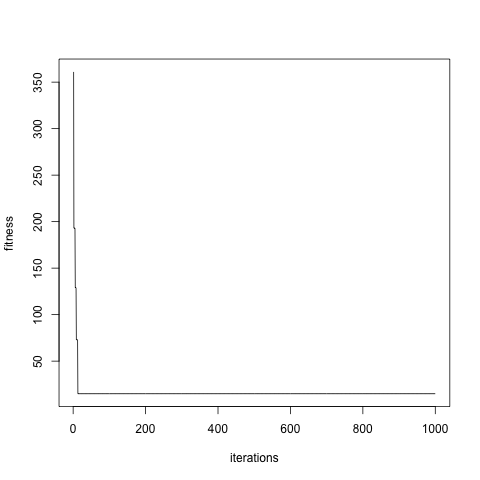
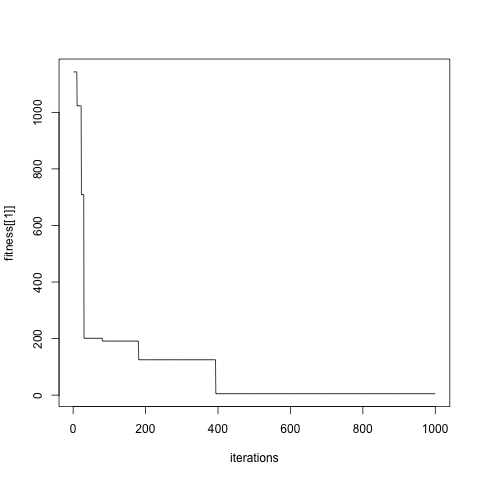
Better results for numbers.

diff --git a/numbers/numbers.py b/numbers/numbers.py
@@ -2,9 +2,9 @@ import random
 import sys
 import collections
 
-LOCAL_SEARCH = True
+LOCAL_SEARCH = False
 MAX_ITERATIONS = 1000
-STARTING_INDIVIDUALS = 1000
+STARTING_INDIVIDUALS = 100
 
 # An individual in our solution space.
 # The genome is a binary list where 0 and 1 are the different sets

diff --git a/relatorio/relatorio.md b/relatorio/relatorio.md
@@ -91,7 +91,7 @@ Foi possível assim obter informações interessantes e um agrupamento razoável
 
 # Exercício 3
 
-O algoritmo evolutivo desenvolvido para o Problema da Partição no Exercício 3 pode ser expresso de forma concisa em pseudocódigo. Em alto nível, o espaço do problema é explorado através da geração sucessiva de gerações a partir de um número inicial de indivíduos (1000, em nossos testes), até um número máximo de iterações (também 1000 em nossos experimentos).
+O algoritmo evolutivo desenvolvido para o Problema da Partição no Exercício 3 pode ser expresso de forma concisa em pseudocódigo. Em alto nível, o espaço do problema é explorado através da geração sucessiva de gerações a partir de um número inicial de indivíduos (100, em nossos testes), até um número máximo de iterações (1000 em nossos experimentos). O tamanho da geração permanece constante ao longo da execução do algoritmo.
 
 ~~~
 generation = create_initial_generation()
@@ -122,6 +122,8 @@ create_next_generation(generation):
 ~~~
 
 A subroutine `cross_over` implementa a reprodução de indivíduos. São escolhidos N indivíduos para reprodução, onde N é o tamanho da geração, usando o algoritmo de _Roulette Wheel_, em que indivíduos são escolhidos aleatoriamente com reposição com probabilidades proporcionais a seu fitness (ou seja, indivíduos mais aptos têm maior probabilidade de serem escolhidos). Esses indivíduos são tomados em pares e cruzados usando um ponto de corte aleatório.
+
+Uma observação interessante sobre o método _Roulette Wheel_ é que ele não trouxe resultados bons com gerações grandes, de 1000 indivíduos -- nesse caso, o algoritmo rapidamente convergia para um vale não muito bom e não conseguia mais sair dele. Presumivelmente isso ocorre porque, com muitos indivíduos, para vários deles as probabilidades de escolha são muito próximas, e apenas aqueles com fitness realmente muito bons são consistentemente escolhidos várias vezes para reprodução, causando baixa mutabilidade na geração seguinte.
 
 ~~~
 cross_over(generation):
@@ -155,19 +157,17 @@ local_search(generation):
 		flip in individual the bit corresponding to n
 ~~~
 
-Esse algoritmo foi executado 32 vezes com e sem busca local sobre os números fornecidos pelo professor. Para as execuções com busca local, o melhor resultado obtido foi um _fitness_ de 15, enquanto que sem busca local o melhor _fitness_ foi de 2275.
+Esse algoritmo foi executado 32 vezes com e sem busca local sobre os números fornecidos pelo professor. Para as execuções com busca local, o melhor resultado obtido foi um _fitness_ de 5, enquanto que sem busca local o melhor _fitness_ foi de 4199.
 
-A Figura 2 ilustra a evolução do _fitness_ ao longo das gerações na melhor execução com busca local.
+A Figura 2 ilustra a evolução do _fitness_ ao longo das gerações na melhor execução com busca local. A convergência ocorreu após a iteração 400, e observam-se claramente os saltos causados pelo processo de busca.
 
 ![Evolução do fitness com busca local](../numbers/fitness-evol-local.png)
-
-A busca convergiu para o valor 15 após apenas 13 iterações. Nota-se que, embora a busca local tenha sido bastante eficaz em acelerar a convergência do algoritmo, nem ela nem os mecanismos de mutação e crossing over foram capazes de encontrar soluções melhores fora desse vale.
 
 A Figura 3 ilustra a evolução do _fitness_ na melhor execução sem busca local.
 
 ![Evolução do fitness sem busca local](../numbers/fitness-evol-nolocal.png)
 
-O melhor _fitness_ nesse caso foi obtido após apenas 3 iterações, novamente evidenciando a dificuldade do algoritmo em sair de vales no espaço de busca.
+A convergência aqui ocorre já na iteração 5, e observa-se a dificuldade do método sem busca local de escapar de vales.
 
 [spam]: http://csmining.org/index.php/spam-email-datasets-.html
 [rweka]: http://cran.r-project.org/web/packages/RWeka/index.html
